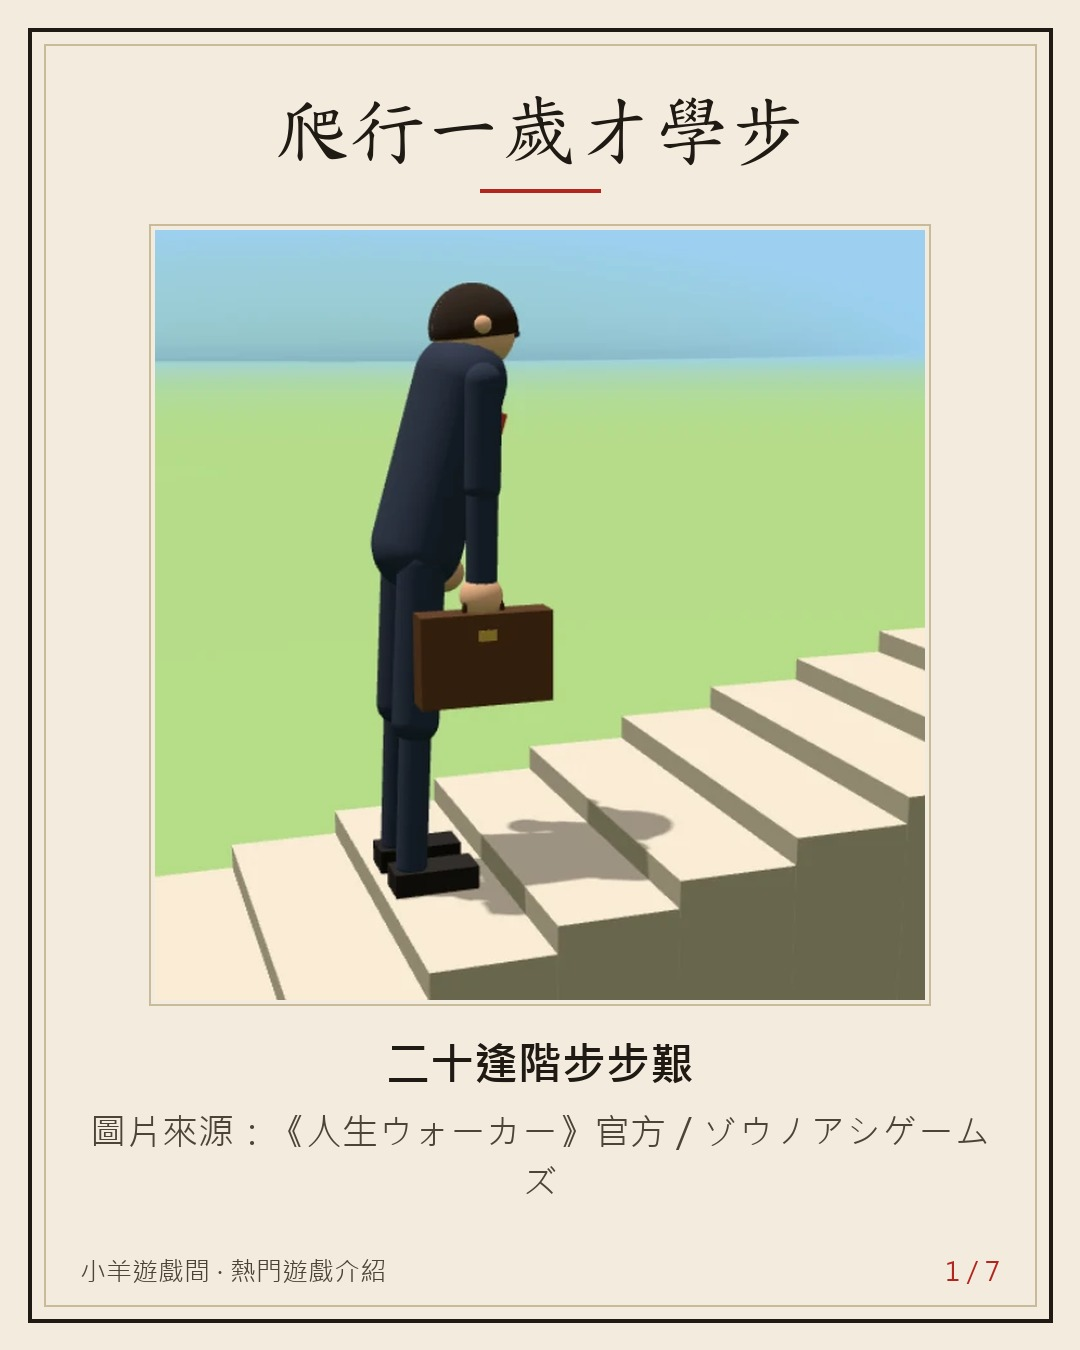
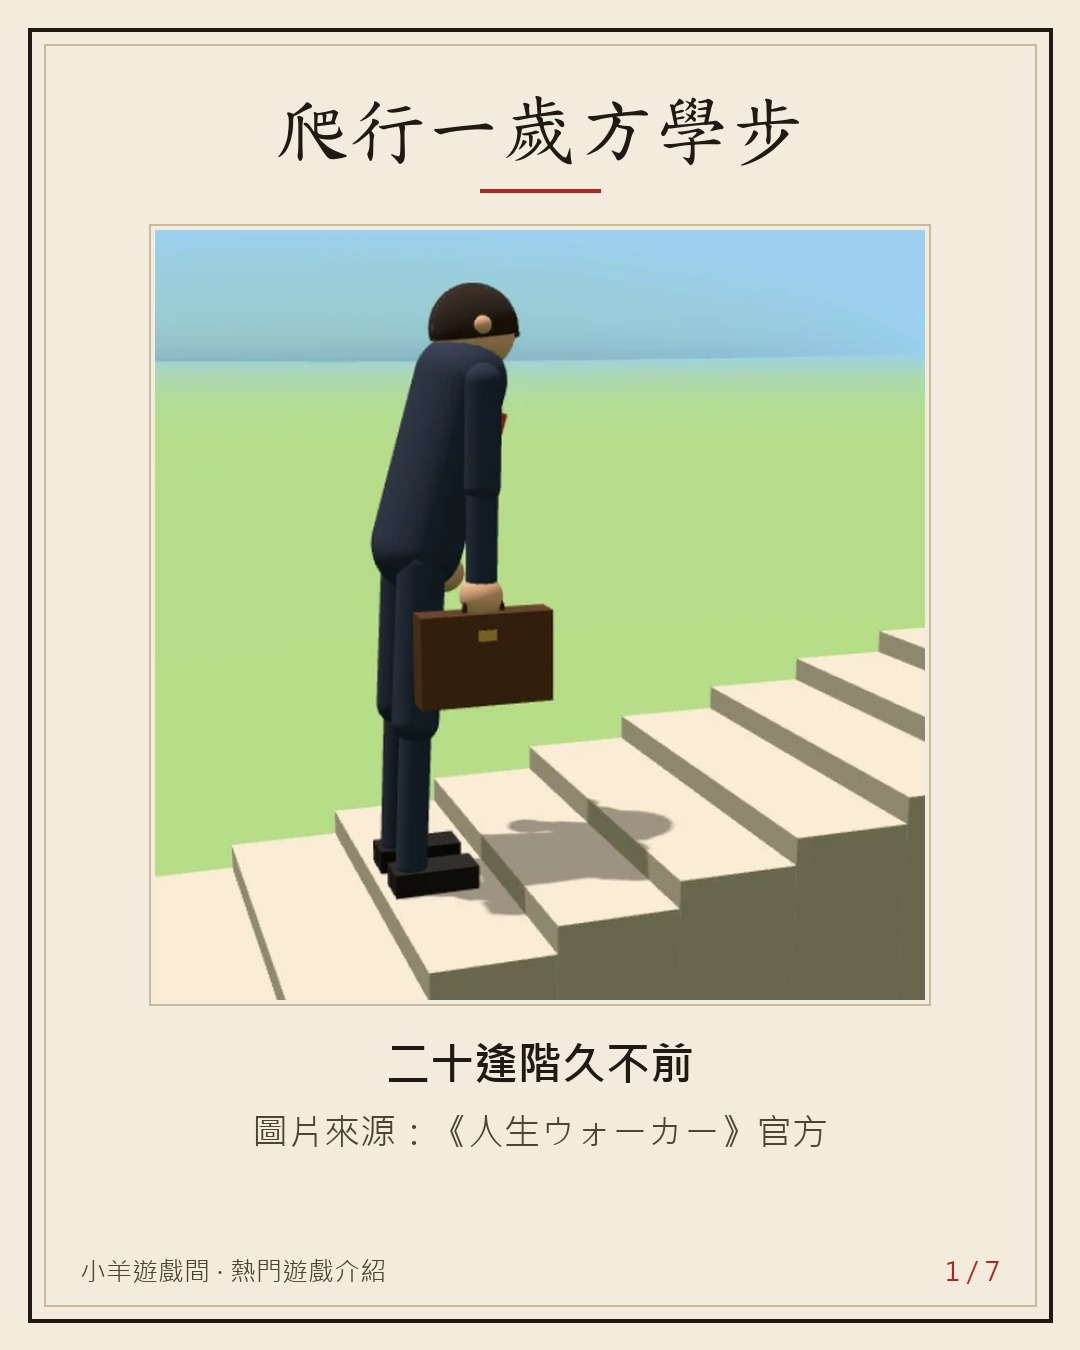
vault backup: 2026-11-22 04:47:52

diff --git a/Projects/auto promotion/posts/83.md b/Projects/auto promotion/posts/83.md
@@ -1,0 +1,97 @@
+---
+id: 83
+type: popular
+game: 人生步行者（人生ウォーカー／Life Walker，zounoashi.com/games/walk100/，日本 ゾウノアシゲームズ，作者トモぞヴP）
+topic: "人生步行者：左右腳各一步、從爬行的 0 個月走到 100 歲的日本網頁物理遊戲（4388 人生模擬合集、約 4,000 次遊玩 78%／65 票）；固定節奏連點 0～18 歲約 155 秒、卡在 20 歲樓梯 65 秒；公開程式：年紀看距離換算（0～18 歲佔全程 24%、70 歲前 77%）、20 歲樓梯、70 歲拐杖、85 歲輪椅、90 歲背影變白；作者立志做 1000 款遊戲每天一款（站上 77 款）"
+status: 待發
+created: 2026-11-22 13:00
+score: 0
+---
+# 【介紹】網頁遊戲《人生步行者》：左一步右一步，從爬行走到 100 歲
+
+## Threads
+### 1
+爬行一歲方學步，
+二十逢階久不前。
+
+【介紹】《人生步行者》
+話說江湖上有一門奇功：左一步、右一步，從爬行的 0 個月一路走到 100 歲。
+年紀不看時間，看走了多遠：前 18 年只佔全程 24%，江湖謂之童年很短。
+![[83/01.jpg]]
+### 2
+且說在下親身試劍：固定節奏連點，0～18 歲約 155 秒；到了 20 歲，眼前一座樓梯，原地連點 65 秒以上，還是 20 歲，江湖笑之。
+翻開祕笈（遊戲公開程式）：年紀只算走過的最遠距離，跌倒不倒退，只停 1.2 秒就原地同歲站起。心得：放手多試。
+![[83/04.jpg]]
+### 3
+70 歲拄拐杖，85 歲換輪椅，只剩連點推車，反而最穩 XD；90 歲起鏡頭停住，目送背影漸漸變白。
+祕笈裡有條跳關捷徑，在下借來看後半場風景：從 70 歲起連點，不到 40 秒走到 100 歲。
+此功手機點開即可練，不用註冊。
+考考閣下：20 歲那座樓梯，你手點幾秒能過？留言告知👇
+下回再介紹一門網頁奇功，一樣附實測數字，想看請追蹤小羊遊戲間。
+![[83/06.jpg]]
+### 連結
+《人生步行者》（作者トモぞヴP，立志做 1000 款遊戲、每天一款，站上已 77 款）https://www.zounoashi.com/games/walk100/ 。這門奇功用腳走一生，我們的《生在中國》用選擇走一生；想再找點了就玩的奇功，都在小羊遊戲間 👉 https://games.csiesheep.com/
+![[83/07.jpg]]
+
+## Instagram
+爬行一歲方學步，二十逢階久不前。
+
+【介紹】《人生步行者》（日文原名《人生ウォーカー》）
+話說江湖上有一門奇功：左一步、右一步，從爬行的 0 個月一路走到 100 歲。年紀不看時間，看你走了多遠；跌倒不算輸，1.2 秒後原地同歲站起。
+在下實測：固定節奏連點，0～18 歲約 155 秒；到了 20 歲，眼前一座樓梯，原地連點 65 秒以上，還是 20 歲。翻開祕笈：0～18 歲只佔全程 24%，走完 77% 才 70 歲；70 歲拄拐杖，85 歲換輪椅，90 歲起鏡頭停住，目送背影漸漸變白。
+網頁點開即玩，不用註冊。考考閣下：20 歲那座樓梯，你手點幾秒能過？留言告知。
+下回再介紹一門網頁奇功，一樣附實測數字，想看請追蹤小羊遊戲間。這門奇功用腳走一生，我們的《生在中國》用選擇走一生。
+
+連結在主頁
+#小羊遊戲間 #網頁遊戲推薦 #免費小遊戲 #人生步行者 #人生模擬
+
+卡片：![[83/01.jpg]] ![[83/02.jpg]] ![[83/03.jpg]] ![[83/04.jpg]] ![[83/05.jpg]] ![[83/06.jpg]] ![[83/07.jpg]]
+
+## Facebook
+爬行一歲方學步，
+二十逢階久不前。
+
+【介紹】《人生步行者》（日文原名《人生ウォーカー》）
+話說江湖上有一門奇功：左一步、右一步，從爬行的 0 個月一路走到 100 歲。畫面左上角只有一個年紀；年紀不看時間，看你走了多遠。操作是左右腳輪流走，電腦用空白鍵或左右鍵，手機點按。4388 小遊戲站把它收在人生模擬合集，約 4,000 次遊玩、78% 玩家覺得好玩（65 票）。
+
+🧑💻 作者：日本的トモぞヴP。站上自述 2019 年進入面白法人カヤック（KAYAC），做過《ケツバトラー》；後來突然想做 1000 款遊戲，過著每天發一款的日子，目前站上已有 77 款，遊戲點開即玩、不用註冊。
+
+且說在下親身試劍：
+👶 固定節奏連點，0～18 歲約 155 秒。
+🪜 到了 20 歲，眼前一座樓梯，原地連點 65 秒以上，還是 20 歲，江湖笑之。（固定節奏連點；手點的成績以自己為準。）
+
+翻開祕笈（遊戲公開程式）：
+📜 年紀是用走的距離換算，整條路 0～18 歲只佔 24%，江湖謂之童年很短；走完 77% 才 70 歲。
+📜 年紀只算走過的最遠距離，跌倒不倒退，1.2 秒後原地同歲站起；心得：放手多試。
+📜 70 歲起步幅變小、拄拐杖；85 歲換輪椅，改成連點推車，不會再跌倒，反而最穩 XD；90 歲起鏡頭停住，目送背影漸漸變白。
+📜 配樂 32 小節，跟著走的距離一格一格播，正好在 100 歲結束；結算畫面還會畫一條年齡對時間的曲線。
+📜 還有條跳關捷徑，在下借來看後半場風景：從 70 歲起連點，不到 40 秒走到 100 歲。
+
+江湖險惡，坐上輪椅才不會再跌倒 XD
+此功網頁點開即可練，不用註冊。考考閣下：20 歲那座樓梯，你手點幾秒能過？留言告知。下回再介紹一門網頁奇功，一樣附實測數字，想看請追蹤小羊遊戲間。
+
+遊戲：https://www.zounoashi.com/games/walk100/
+🧭 這門奇功用腳走一生，我們的《生在中國》用選擇走一生：投胎到中國歷史上，一路選到結局。
+👉 更多點了就玩的網頁小遊戲（不用註冊），都在小羊遊戲間：https://games.csiesheep.com/
+
+圖片來源：第 1 張為《人生ウォーカー》官方縮圖（ゾウノアシゲームズ）；第 2～6 張為遊戲畫面截圖（只裁切）；第 7 張為小羊遊戲間文字卡。
+
+相簿：同 Instagram 卡片
+
+## Sources
+- https://www.zounoashi.com/games/walk100/ （2026-11-22 抓頁；原始碼存 Pictures/auto_promotion/post_frames/83_walk100/）— 標題「人生ウォーカー」；說明「物理で歩くほど年をとるゲーム。ハイハイから始めて、100歳の大往生まで歩き切れるか。」；JSON-LD author トモぞヴP、publisher ゾウノアシゲームズ、isAccessibleForFree；操作「左右の足を交互に動かして歩く」（howto）；頁面語言列有 ja/en/ko/zh/tw，tw 標題「人生行者」；分享文字「大往生しました #人生ウォーカー」
+- 同頁 walk.js／內嵌程式（未混淆、有日文註解）：LIFE 距離→年齡表 [[0,0],[2,1],[8.5,18],[27,70],[35,100]]（0～18 歲 8.5/35＝24%、70 歲 27/35＝77%）；STAIRS age 20；CANE_AGE 70；WHEEL_AGE 85、輪椅「押すたびに前へ押し出し、あとは少しずつ止まる（転ばない）」；SEE_OFF 90、90 歲起漸白；RISE_AFTER 1.2 秒跌倒後同歲起身；100 歲結算、記錄為花的秒數、結果畫面年齡對時間圖；BGM 32 小節×8 步、依走的距離推進、100 歲剛好結束；7 鍵／螢幕上方三連點跳到 70 歲（除錯捷徑，貼文只說「跳關捷徑」）
+- 同頁程式補充：鍵盤 Space／Enter 或 ←→（A／D）選左右腳，手機點按；押している間は足を上げ、離すと前へ伸ばして着く；老人 ELDER「歩幅だけ小さい」；camStop 90 歲起鏡頭停在原地（見送背影）；getUp() 在同一 x、同歲重建身體；站上 /site/ 稱「インストールや登録は不要」（整個站的遊戲）
+- https://www.zounoashi.com/site/ 與 https://www.zounoashi.com/ （2026-11-22 抓取）— 運営者トモぞヴP：2019 年面白法人カヤック新卒入社、制作「ケツバトラー」等；「ある日突然『ゲームを1000本作ろう』と思い立ち、まいにち1本ゲームを投稿する日々」；遊戲一覧 77 本；「サイト内のゲームはSNSシェア・実況配信等OK」、禁止無斷轉載與嵌入（貼文只放連結、截圖，不轉載遊戲）
+- https://www.zounoashi.com/games/walk100/img/thumb.webp — 官方縮圖 600×600（卡 1，不修改；存 posts/83/src/thumb.webp）
+- https://4388.fun/g/6906 （2026-11-22 抓頁）— 人生步行者（Life Walker）；遊玩 4,025 次、78%（65 票）、上架約 25 天前；來源 zounoashi.com；收錄於「人生模擬遊戲」主題合集；留言 0；沒有媒體報導可引（網路搜尋找不到），貼文不稱「爆紅」
+- 「爬行一歲方學步」：walk.js 註解「0歳はハイハイ、1歳で立ち」；「年紀只算走過的最遠距離」：scene 程式「進んだ最長の距離を…足していく」best 只增不減；「原地連點 65 秒以上還是 20 歲」：實測 171 秒到 236 秒每 8 秒截圖都是 20 歲，240 秒結束；固定節奏連點的結果，不代表手點過不了樓梯，貼文寫明固定節奏
+- 實測（headless Chrome 手機 405×720、2026-11-22；遊戲碼原檔未改，只送空白鍵按下 120 ms／放開 120 ms 的固定節奏，每 8 秒截圖讀畫面左上年紀；截圖存 Pictures/auto_promotion/post_frames/83_walk100/run2）：0 個月→1 歲約 25 秒、18 歲約 155 秒、20 歲約 171 秒後到 236 秒（結束時 240 秒）都停在 20 歲（≥65 秒）；另一次 100/100 ms 固定節奏約 45 秒停在 5 歲（未寫入貼文）
+- 跳關實測（run3）：開局按 7 直接到 70 歲，之後空白鍵 100 ms／100 ms 固定節奏連點，70 歲 0 秒、88 歲 34 秒（輪椅）、97 歲 37 秒、40 秒時已是結算畫面「A Life Well Lived」→「不到 40 秒」；此為跳關後數字，不是從頭玩完的成績，貼文已寫明「跳關捷徑」
+- 沒有來源說這款是 AI 做的，貼文不寫 AI
+
+## 打磨紀錄
+| 回合 | 1 | 2 | 3 | 4 | 5 | 6 | 7 | 8 | 9 | 10 | 平均 | 主要修改 |
+|---|---|---|---|---|---|---|---|---|---|---|---|---|
+
+## 發文紀錄
